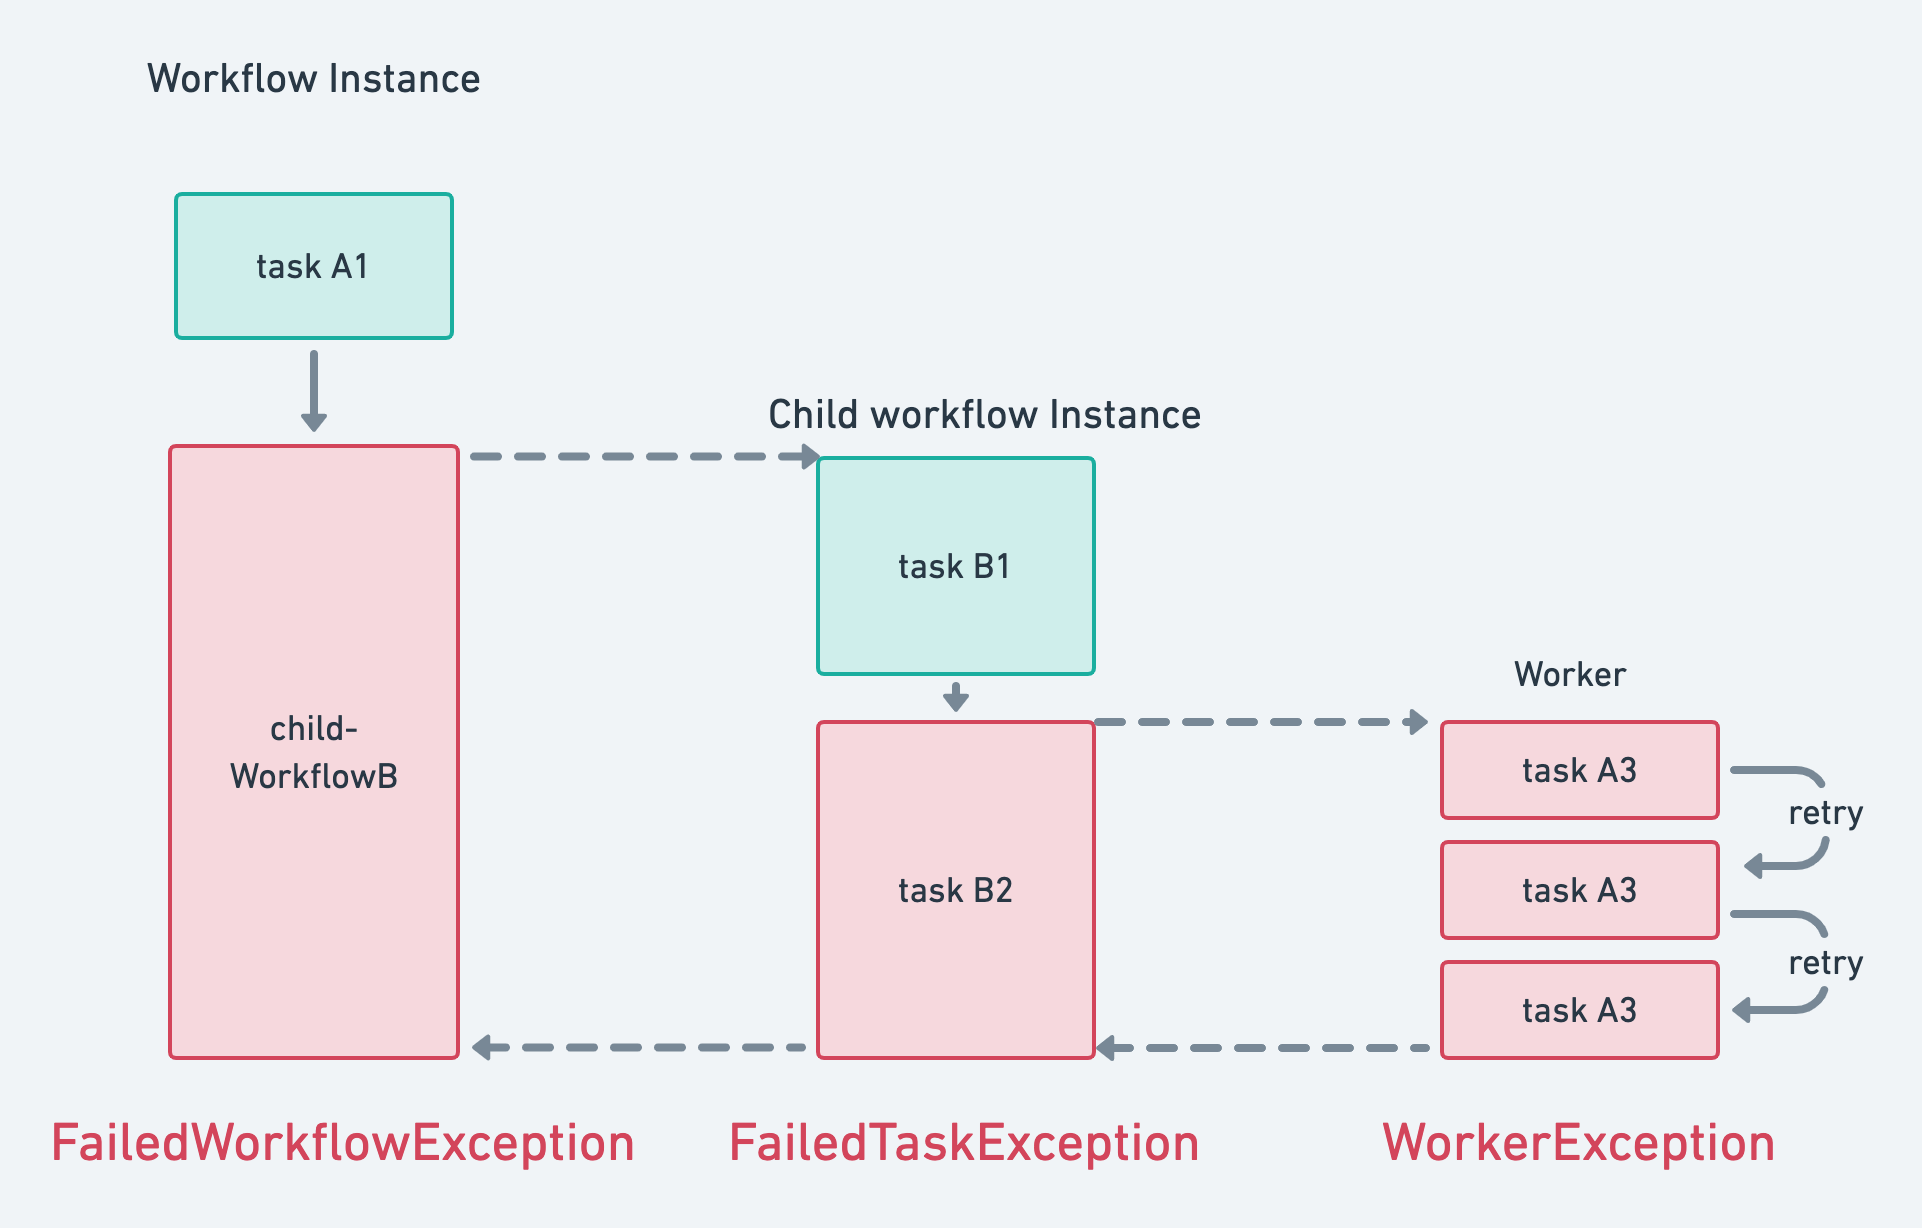
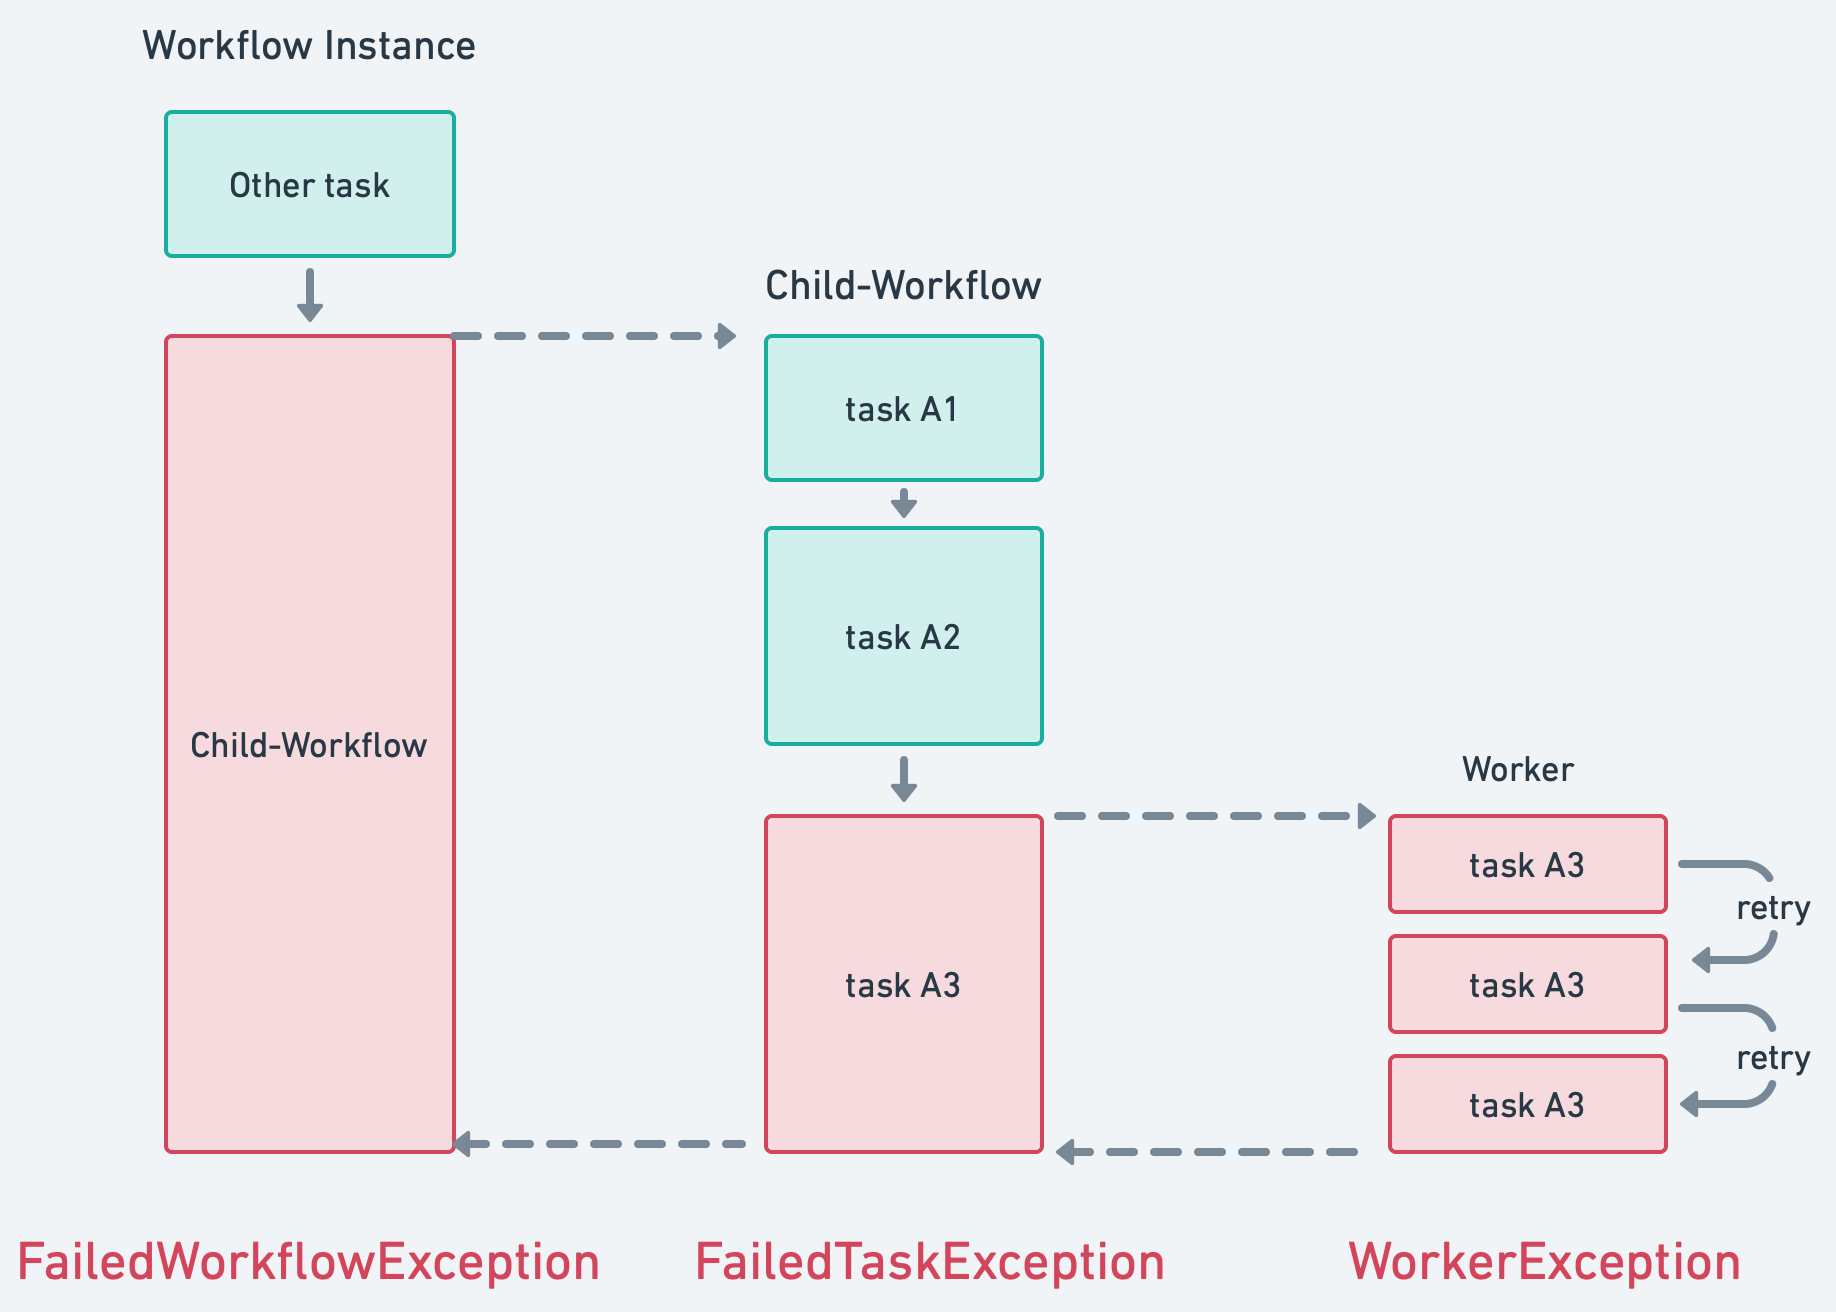
improve errors page

diff --git a/src/pages/docs/workflows/errors.md b/src/pages/docs/workflows/errors.md
@@ -2,97 +2,103 @@
 title: Errors
 description: This page discusses strategies for error handling within workflows, including retrying failed tasks and managing exceptions, to ensure robust workflow execution.
 ---
-Managing errors in a distributed system are usually tedious. Infinitic makes our life easier, by automatically keeping trace of the chain of errors. Infinitic even let us code the reaction to errors directly from the workflow!
+
+Handling errors in a distributed system is typically complex. Infinitic simplifies this by automatically tracking error chains and allowing you to handle errors directly within the workflow.
 
 ## Error when processing a task
 
-Tasks are processed within workers. If an exception is thrown while processing a task, the exception is caught by the worker and the task is automatically retried according to the [retry policy](/docs/services/syntax#task-retries).
+Tasks are processed within workers. If an exception occurs while processing a task, it is caught by the worker, and the task is automatically retried according to the [retry policy](/docs/services/syntax#task-retries).
 
 ![Error when processing a task](/img/error-task@2x.png)
 
-Once all retries have failed, the worker tells the workflow the task has failed with a `WorkerException`. This exception has the properties below:
+If all retries fail, the worker notifies the workflow of the task failure with a `WorkerException`. This exception includes the following properties:
 
 | Property               | Type            | Description                                    |
 | ---------------------- | --------------- | ---------------------------------------------- |
-| `workerName`         | String          | name of the worker where the exception occured |
-| `name`               | String          | exception name                                 |
-| `message`            | String          | exception message                              |
-| `stackTraceToString` | String          | string version of the exception stacktrace     |
-| `cause`              | WorkerException | (optional) exception cause                     |
+| `workerName`         | String          | Name of the worker where the exception occured |
+| `name`               | String          | Exception name                                 |
+| `message`            | String          | Exception message                              |
+| `stackTraceToString` | String          | String representation of the exception stack trace     |
+| `cause`              | WorkerException | (optional) Cause of the exception                    |
 
 {% callout type="note"  %}
 
-Serializing exceptions is error-prone. That's why we "normalize" them into a `WorkerException` format.
+Serializing exceptions can be error-prone. Therefore, we "normalize" them into a `WorkerException` format.
 
 {% /callout  %}
 
-What happens in the workflow depends on whether it is waiting for the task to be completed or not:
+What happens next in the workflow depends on whether it is waiting for the task to complete:
 
 ### If the workflow expects the task result
 
-This is the case when we dispatch a task synchronously and also when we are [waiting the result](/docs/workflows/deferred#waiting-for-completion) of a `Deferred<T>`. In this case, a `FailedTaskException` is thrown inside the workflow with the properties below:
+This situation occurs when a task is dispatched synchronously or when [awaiting](/docs/workflows/deferred#waiting-for-completion) the result of a `Deferred<T>`. Here, a `FailedTaskException` is thrown within the workflow, containing these properties:
 
 | Property            | Type            | Description        |
 | ------------------- | --------------- | ------------------ |
-| `taskName`        | String          | task name          |
-| `taskId`          | String          | task id            |
-| `methodName`      | String          | method called      |
-| `workerException` | WorkerException | task failure cause |
+| `taskName`        | String          | Task name          |
+| `taskId`          | String          | Task id            |
+| `methodName`      | String          | Method called      |
+| `workerException` | WorkerException | Cause of task failure |
 
 ![Error when processing a sync task](/img/error-task-sync@2x.png)
 
-Also, if another client or workflow expects the result of this workflow, it will see a `FailedWorkflowException`:
+If the client expects this workflow's result, it will encounter a `FailedWorkflowException`:
+
+![Error when processing a sync task](/img/error-task-sync-client@2x.png)
+
+
+Additionally, if another workflow expects this workflow's result, it will also encounter a `FailedWorkflowException`:
 
 ![Error when processing a sync task](/img/error-task-sync-child@2x.png)
 
-`FailedWorkflowException` has the properties below:
+The `FailedWorkflowException` includes these properties:
 
 | Property              | Type              | Description            |
 | --------------------- | ----------------- | ---------------------- |
-| `workflowName`      | String            | workflow name          |
-| `workflowId`        | String            | workflow id            |
-| `methodName`        | String            | method called          |
-| `methodRunId`       | String            | method run id          |
-| `deferredException` | DeferredException | workflow failure cause |
+| `workflowName`      | String            | Workflow name          |
+| `workflowId`        | String            | Workflow id            |
+| `methodName`        | String            | Method called          |
+| `methodRunId`       | String            | Method run id          |
+| `deferredException` | DeferredException | Cause of workflow failure |
 
 In the example above, `deferredException` would be a `FailedTaskException`.
 
 ### If the workflow does not expect the task result
 
-This is the case, when we dispatch a task [asynchronously](/docs/workflows/parallel#asynchronous-tasks), or for a task in another method [running in parallel](/docs/workflows/parallel#parallel-methods).
+This occurs when a task is dispatched [asynchronously](/docs/workflows/parallel#asynchronous-tasks) or is part of a method running [in parallel](/docs/workflows/parallel#parallel-methods).
 
 ![Error when processing an async task](/img/error-task-async@2x.png)
 
-In this case, the task is failed, but the workflow continues without error, as the failed task is not on the main path.
-But if the workflow waits fot the result later, then a `FailedTaskException` will be thrown then:
+In this case, the task fails, but the workflow continues without error, as the failed task is not on the main execution path. If the workflow later waits for the result, a `FailedTaskException` will be thrown at that time:
 
 ![Error when processing an async task](/img/error-task-async-2@2x.png)
 
 ## Errors due to cancellation and more
 
-We have seen that a failure of a synchronous task will throw a `FailedTaskException`. Also the failure of a synchronous child-workflow will throw a `FailedWorkflowException`. There are similar errors due to cancelation, and some other cases:
+Failures of synchronous tasks result in `FailedTaskException`, while failures of synchronous child workflows result in `FailedWorkflowException`. Similar errors arise from cancellation and other scenarios:
 
 | Name                            | When it happens                                                                                                                                                        |
 | ------------------------------- | ---------------------------------------------------------------------------------------------------------------------------------------------------------------------- |
-| `FailedTaskException`         | the task has failed. A task has failed only after all planed retries have failed.                                                                                      |
-| `CanceledTaskException`       | the task has been canceled.                                                                                                                                            |
-| `FailedWorkflowException`     | the targeted workflow has a failed synchronous task / child-workflow.                                                                                                  |
-| `CanceledWorkflowException`   | the targeted workflow has been canceled.                                                                                                                               |
-| `UnknownWorkflowException`    | the targeted workflow has never existed or if it is already completed or canceled. This can happen when dispatching a method on a stub created by `getWorkflowById`. |
-| `FailedWorkflowTaskException` | an error occured directly from the code of the workflow.                                                                                                               |
+| `FailedTaskException`         | The task has failed after all planned retries have failed.               |
+| `CanceledTaskException`       | The task has been canceled.                                              |
+| `FailedWorkflowException`     | The targeted workflow has a failed synchronous task or child workflow    |
+| `CanceledWorkflowException`   | The targeted workflow has been canceled.                                 |
+| `UnknownWorkflowException`    | The targeted workflow never existed or is already completed or canceled. This can occur when dispatching a method on a stub created by `getWorkflowById`.  |
+| `FailedWorkflowTaskException` | An error occurred directly within the workflow code.                     |
 
 {% callout type="note"  %}
 
-All those exceptions inherit from `io.infinitic.exceptions.DeferredException`
+All these exceptions inherit from `io.infinitic.exceptions.DeferredException`
 
 {% /callout  %}
 
 ## Try/catch in workflows
 
-We may want to react to a `DeferredException` or one of its subclass. For example, if we want to react to the inability to complete a task with new tasks:
+You might want to handle a `DeferredException` or one of its subclasses, for example to react to task failures with new tasks.
 
 {% callout type="note"  %}
-Try/catch in workflows should be used only for situations when we need to react to _unexpected_ failures. If we expect some failures in our task, a better practice is to catch them directly in the task and send back a status object as a result.
+
+Use try/catch in workflows only for unexpected failures. For expected failures, catch them within the task and return a status object.
 
 {% /callout  %}
 
@@ -127,4 +133,4 @@ val str = try {
 
 {% /callout  %}
 
-If a `DeferredException` has been caught in a workflow, it can not be resumed anymore (see below).
+A `DeferredException` caught in a workflow cannot be resumed.
